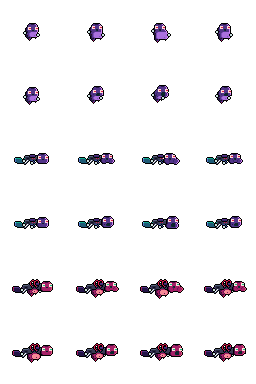
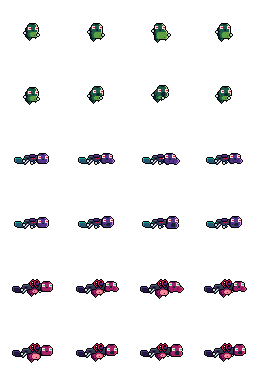
New assets and leveling data to guns.

diff --git a/Game/Guns/Base/Gun.cs b/Game/Guns/Base/Gun.cs
@@ -21,7 +21,8 @@ public partial class Gun : Node2D
     public override void _Process(double delta)
     {
         if (_cooldown > 0) _cooldown -= (float)delta;
-
+        //GD.PrintErr("Game Not Work");
+  
     }
 
     public void Shoot()
@@ -64,7 +65,7 @@ public partial class Gun : Node2D
         type = type + GetInstanceId();
 
         pool.NewBullets(type, gunData, gunData.SpawnAmount);
-        pool.PreparePool(type, gunData, gunData.SpawnAmount);
+
     }
 
     private async void PlayAnimation()

diff --git a/Game/Guns/Base/GunData.cs b/Game/Guns/Base/GunData.cs
@@ -5,6 +5,8 @@ using Godot;
 public partial class GunData : Resource
 {
     [Export] public string GunName { get; set; } = "weapon";
+    [Export(PropertyHint.Enum, "LV1,LV2,LV3,LV4,LV5")]
+    public string LVL { get; set; } = "LV1";
     [Export] public int Damage { get; set; } = 1;
     [Export] public float Knockback { get; set; } = 0f;
     [Export] public float BulletSpeed { get; set; } = 80f;
